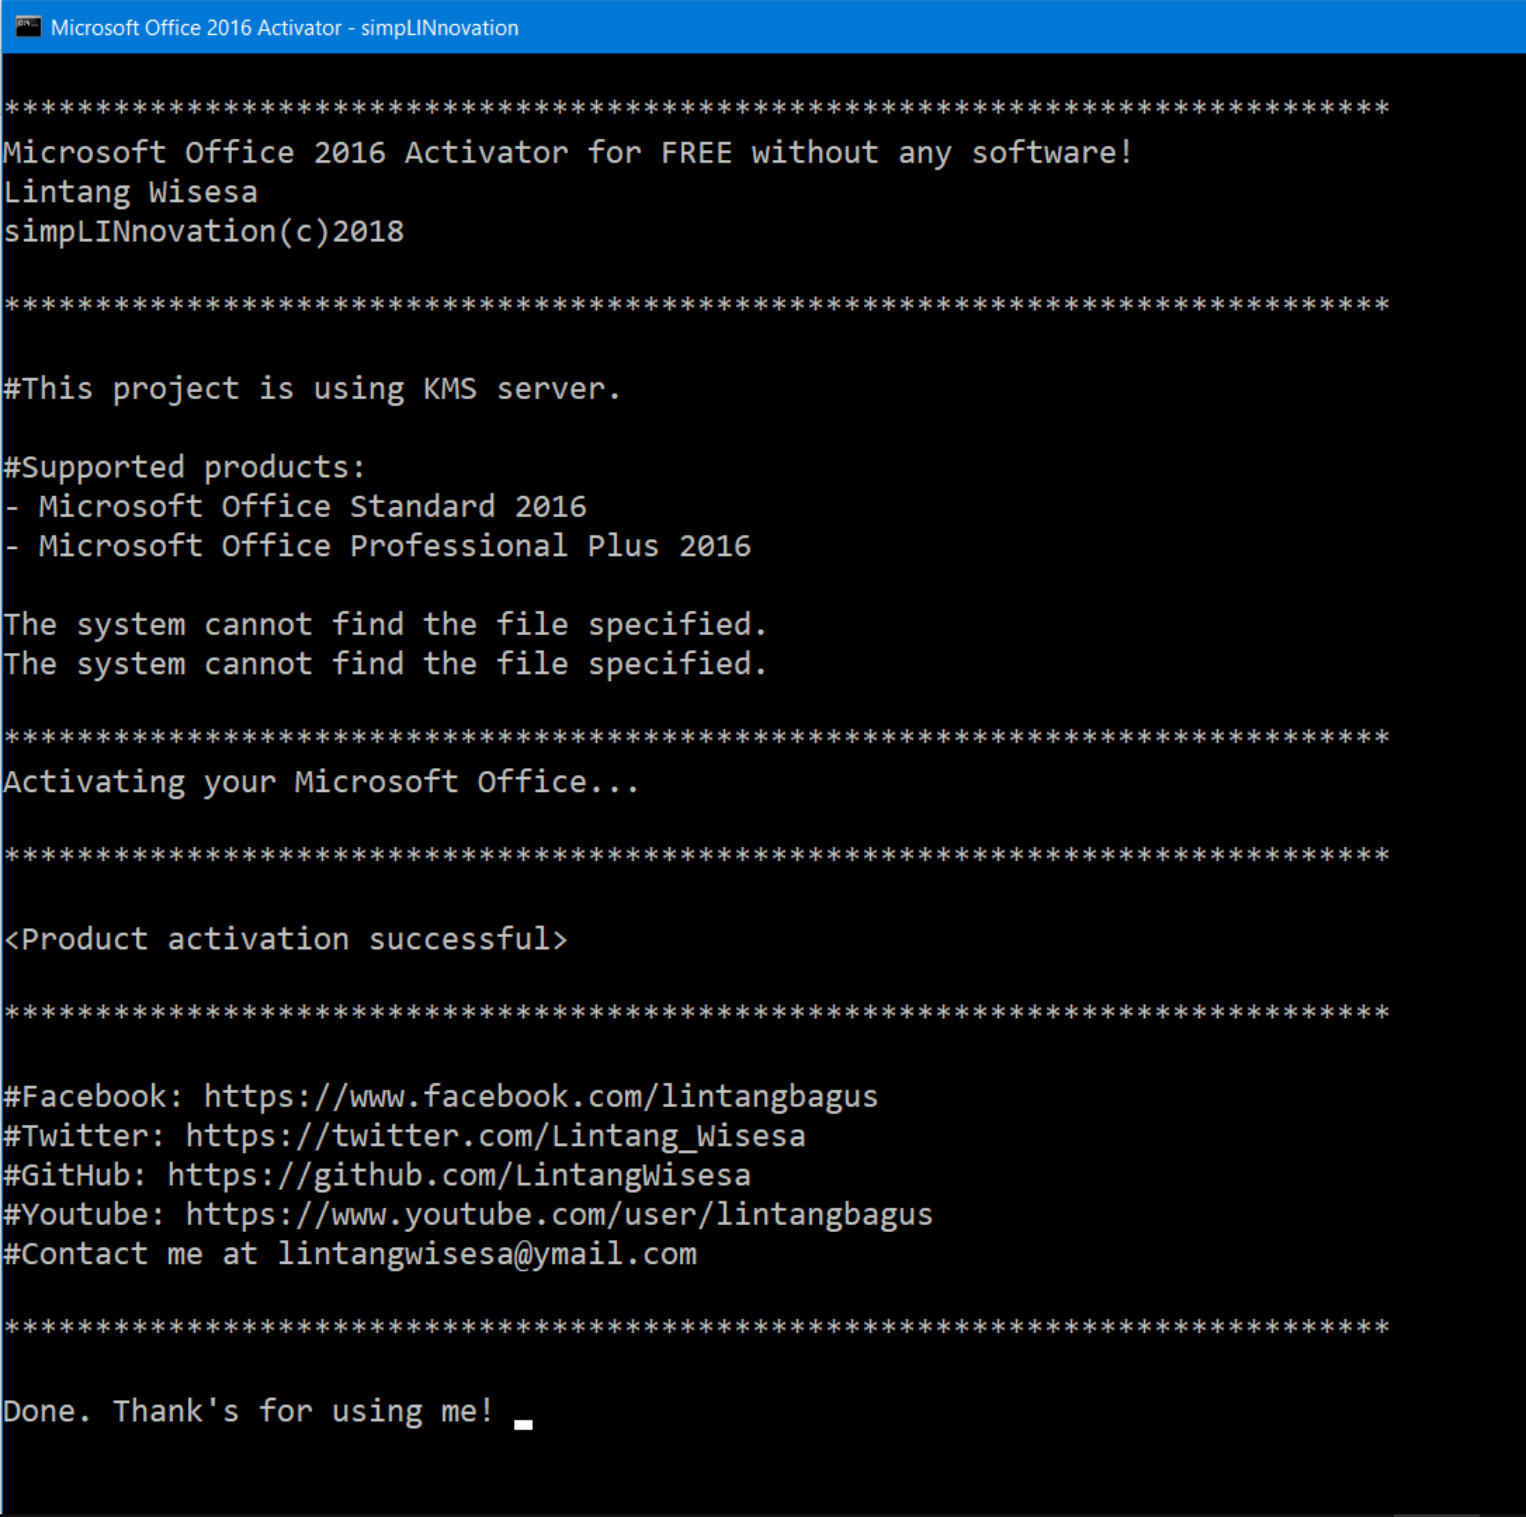
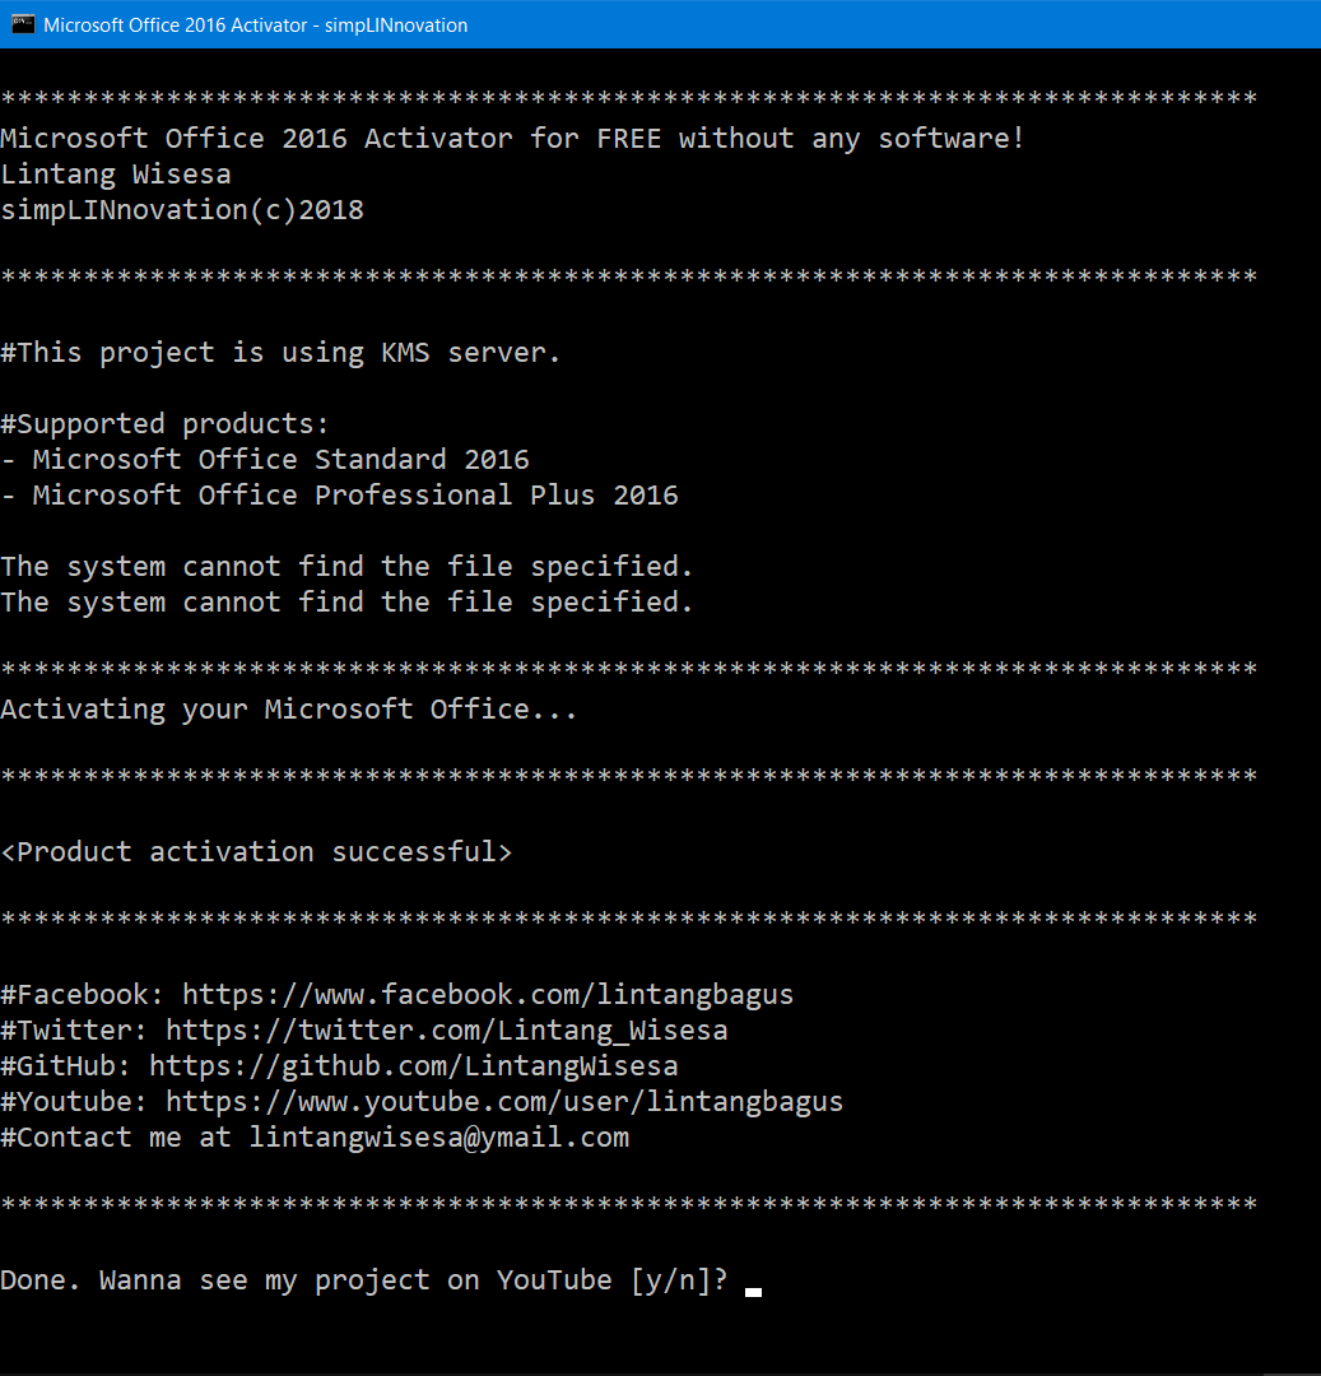
office_activator

diff --git a/README.md b/README.md
@@ -12,7 +12,7 @@
 
 ### **Create the Activator File** :clipboard:
 
-- Basically we will create & use our own simple batch file (__.cmd__) which can access the KMS server to activate Microsoft Office products. To get started, open your text/code editor (e.g **_Notepad_**, **_WordPad_**, **_Visual Studio Code_**, etc.), write the codes below & save it as **.cmd** file. Or you can simply download my **Activator.cmd** on this repo.
+- Basically we will create & use our own simple batch file (__.cmd__) which can access the KMS server to activate Microsoft Office products. To get started, open your text/code editor (e.g **_Notepad_**, **_WordPad_**, **_Visual Studio Code_**, etc.), write the codes below & save it as **.cmd** file. Or you can simply download my **Activator.cmd** from this repo.
 
     ```cmd
     @echo off
@@ -34,7 +34,7 @@
 
     ![screenshot](https://raw.githubusercontent.com/LintangWisesa/Microsoft_Office_2016_Activator/master/Office_Activator.png)
 
-- If everything goes well, now your Microsoft Office 2016 is activated. On the last line, you can type __*n*__ to exit from the app, or type __*y*__ to see my projects on YouTube. Enjoy! :sunglasses:
+- If everything goes well, now your Microsoft Office 2016 is activated. On the last line, you can type __*n*__ to exit from the terminal, or type __*y*__ to see my projects on YouTube. Enjoy! :sunglasses:
 
 #
 
